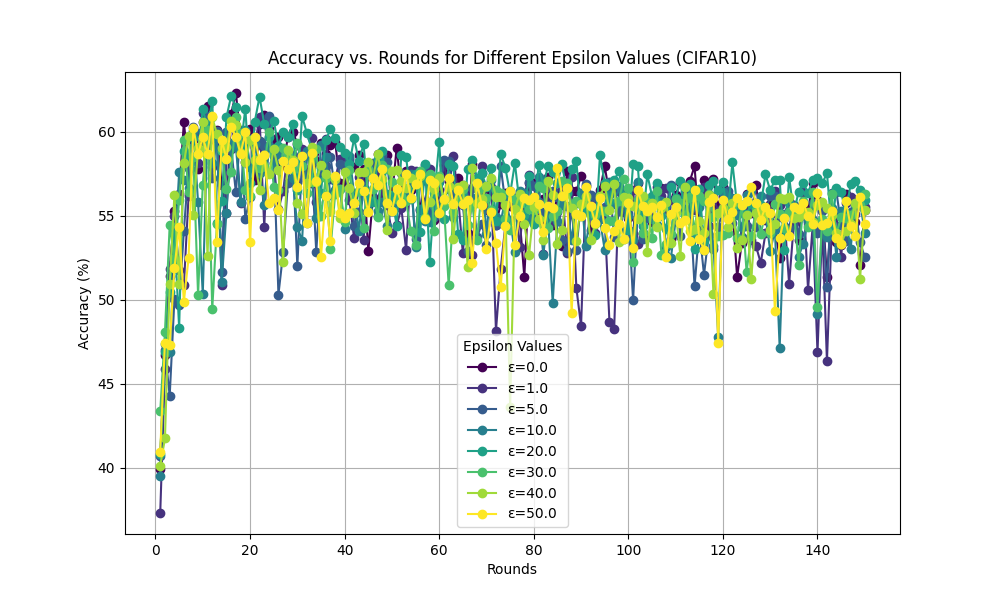
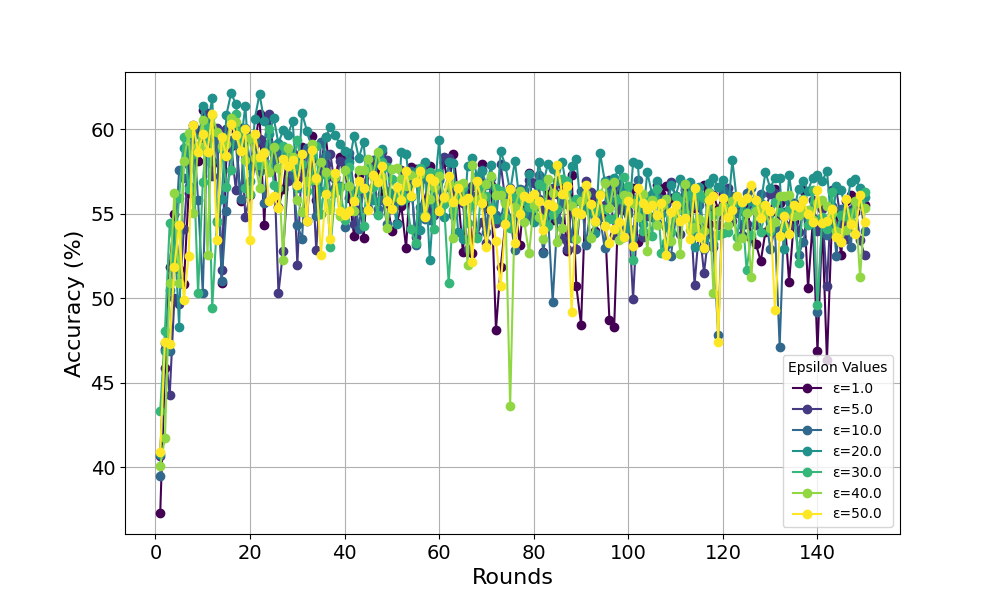
Revised drawEpsilon.py

diff --git a/drawEpsilon.py b/drawEpsilon.py
@@ -4,7 +4,7 @@ import numpy as np
 
 def plot_accuracy_vs_rounds(dataset_name):
     log_directory = './log'
-    epsilon_values = [0.0, 1.0, 5.0, 10.0, 20.0, 30.0, 40.0, 50.0]
+    epsilon_values = [1.0, 5.0, 10.0, 20.0, 30.0, 40.0, 50.0]
     colors = plt.cm.viridis(np.linspace(0, 1, len(epsilon_values)))  # Generate a color map
 
     # Create a plot
@@ -34,11 +34,12 @@ def plot_accuracy_vs_rounds(dataset_name):
             print(f"No data file found for {dataset_name} with epsilon {epsilon}. Skipping...")
             continue
 
-    plt.title(f'Accuracy vs. Rounds for Different Epsilon Values ({dataset_name})')
-    plt.xlabel('Rounds')
-    plt.ylabel('Accuracy (%)')
-    plt.legend(title='Epsilon Values', loc='best')
+   # plt.title(f'Accuracy vs. Rounds for Different Epsilon Values ({dataset_name})')
+    plt.xlabel('Rounds', fontsize=16)
+    plt.ylabel('Accuracy (%)', fontsize=16)  
+    plt.legend(title='Epsilon Values', loc='best', fontsize=10.0)  
     plt.grid(True)
+    plt.tick_params(axis='both', which='major', labelsize=14)
     plt.savefig(f'./log/{dataset_name}_accuracy_vs_rounds.png')
     plt.show()
 
